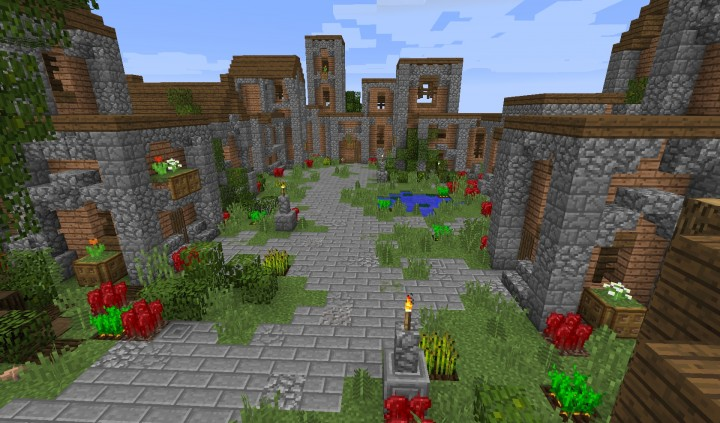
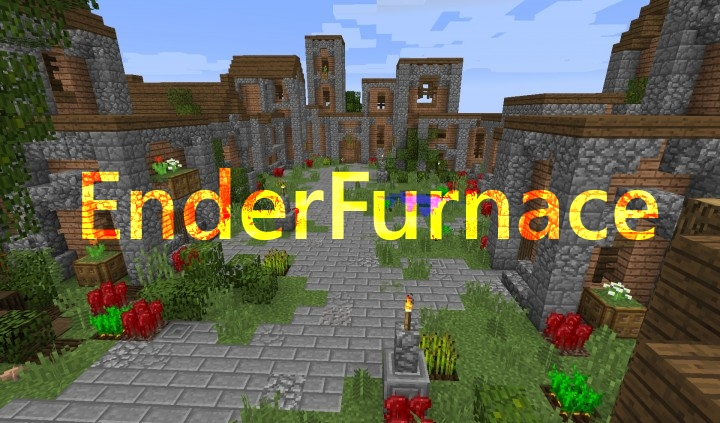
Commit

Changed region(s): [[0.0917, 0.3995, 0.9167, 0.5839]]

diff --git a/index.css b/index.css
@@ -4,53 +4,12 @@ body {
     padding: 0px;
 }
 
-.information {
-    tab-size: 4;
-    -moz-tab-size: 4;
-    -o-tab-size: 4;
-    -webkit-tab-size: 4;
-
-    border: 5px solid rgb(20, 20, 20);
-    resize: none;
-    background-color: rgb(65, 65, 65);
-    color: rgb(231, 231, 231);
-    font-family: 'Courier New', Courier, monospace;
-    font-size: 15px;
-
-    padding: 8px;
-    margin-bottom: 100px;
-
-    position: relative;
-    top: 250px;
-    left: 10%;
-    width: 80%;
-    height: 950px;
-}
-
 #top-bar {
     position: fixed;
     width: 100%;
     height: 44px;
     background: black;
     z-index: 100;
-}
-
-#skript-name {
-    position: relative;
-    top: 120px;
-    text-align: center;
-    color: rgb(231, 231, 231);
-    font-family: 'Courier New', Courier, monospace;
-    font-size: 50px;
-}
-
-#skript-description {
-    position: relative;
-    top: 140px;
-    text-align: center;
-    color: rgb(143, 143, 143);
-    font-family: 'Courier New', Courier, monospace;
-    font-size: 25px;
 }
 
 .discord {
@@ -63,3 +22,34 @@ body {
     position: fixed;
     top: 4px;
     left: 5px;
+}
+
+#personal-info {
+    position: relative;
+    text-align: left;
+    color: rgb(179, 179, 179);
+    font-family: 'Courier New', Courier, monospace;
+    font-size: 20px;
+    top: 80px;
+    padding-left: 50px;
+}
+
+#personal-info > h2 {
+    color: rgb(207, 207, 207);
+}
+
+#projects {
+    position: relative;
+    margin-top: 200px;;
+    margin-bottom: 100px;
+
+    background-color: rgba(80, 80, 80, 0.8)
+}
+
+.project {
+    position: relative;
+    display: block;
+    margin-right: auto;
+    margin-left: auto;
+    padding: 20px;
+}

diff --git a/index.html b/index.html
@@ -1,20 +1,22 @@
 <html>
-<head>
-	<title>bilektugrul's page</title>
-	<link rel="stylesheet" href="index.css">
-</head>
-<body>
- <div id="top-bar">
-		<img class="title" src="res/bileksk.png" width="215" height="36">
-		<a href="https://discord.gg/x2Dseec"><img class="discord" src="res/discord.png" width="24", height="24"></a>
-  </div>
-        <div id="skript-data">
-            <div id="skript-name">
-                bilektugrul
-            </div>
-            <div id="skript-description">
-                a human. from turkey.
-            </div>
+    <!-- NanoDankster'a süper düper şekil tasarımı için teşekkürler heheh :D -->
+    <head>
+        <title>Skript - Ender Furnace</title>
+        <link rel="stylesheet" href="index.css">
+    </head>
+    <body>
+        <div id="top-bar">
+            <img class="title" src="res/bileksk.png" width="215" height="36">
+            <a href="https://discord.gg/x2Dseec"><img class="discord" src="res/discord.png" width="24", height="24"></a>
         </div>
-</body>
+
+        <div id="personal-info">
+            <h2>...</h2>
+            ...
+        </div>
+
+        <div id="projects">
+            <a href="EnderFurnace/index.html"><img class="project" src="res/example.jpg"></a>
+        </div>
+    </body>
 </html>
